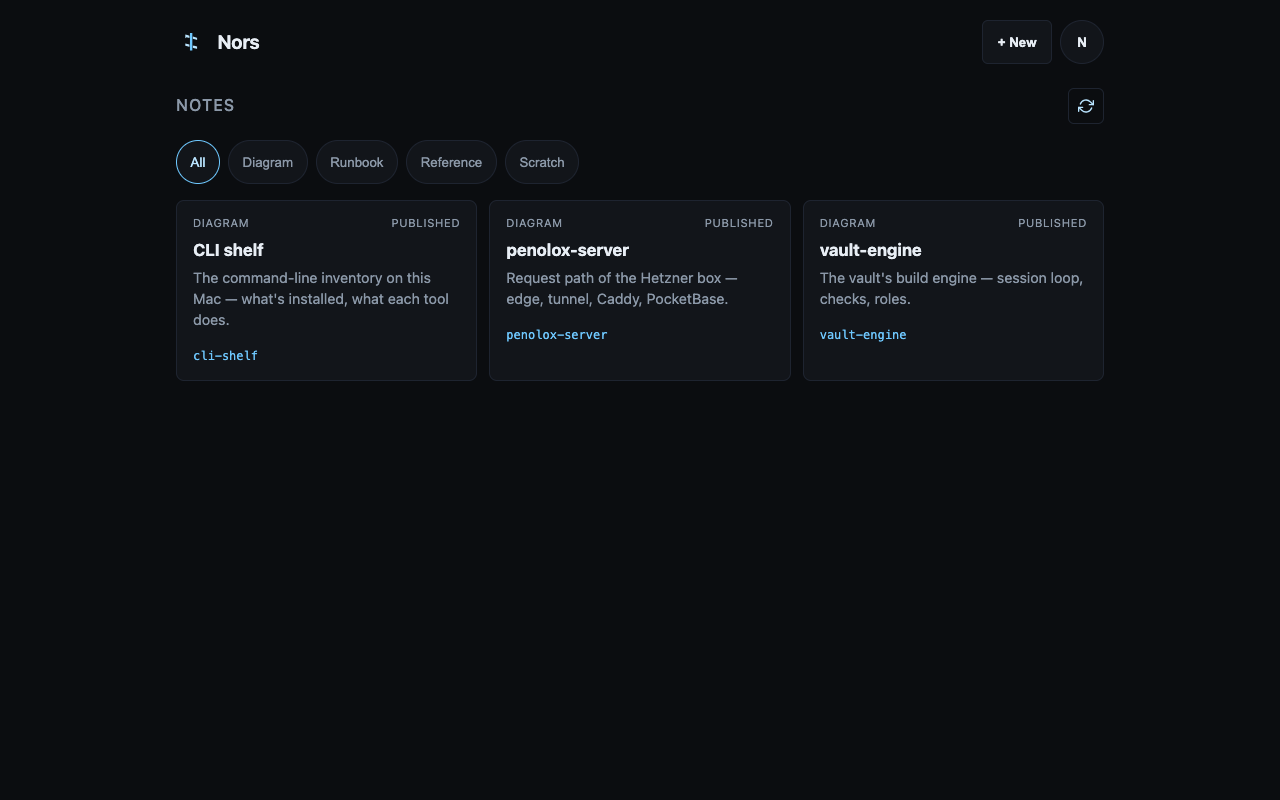
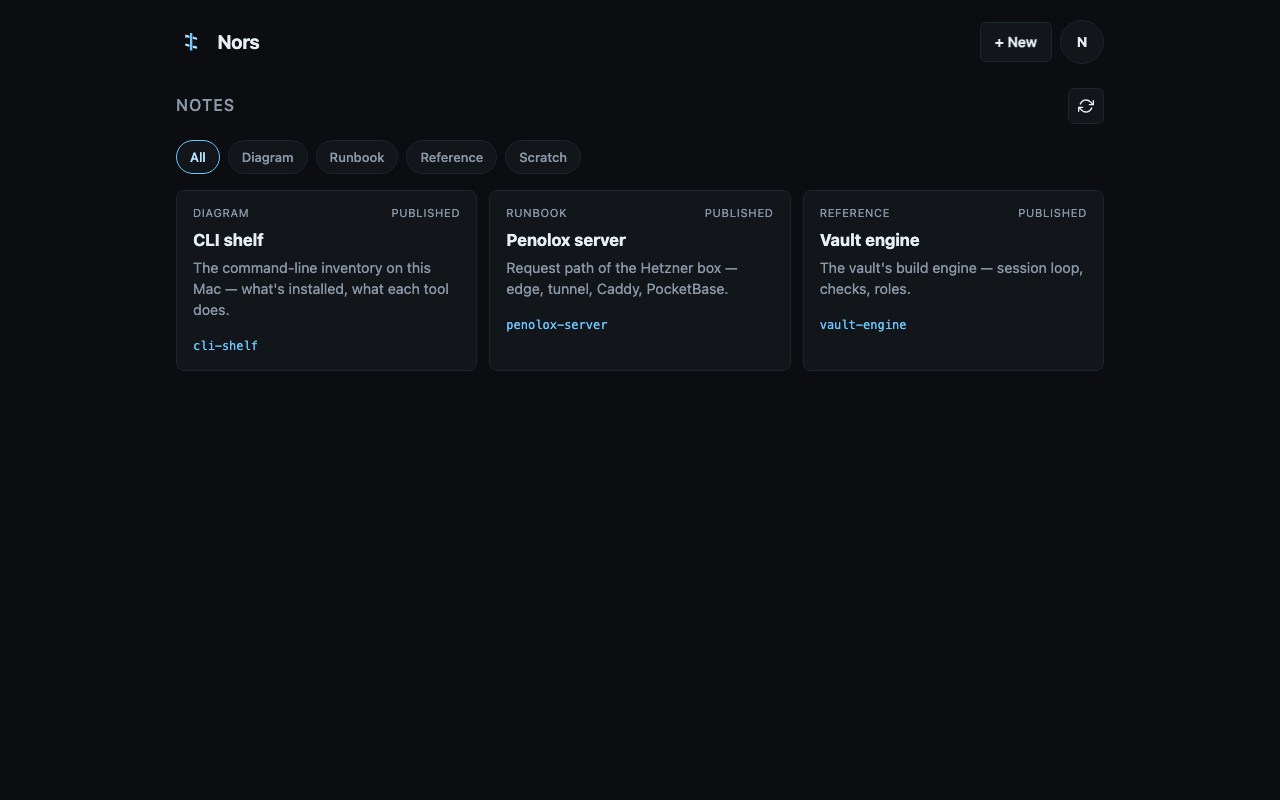
chore: release 0.1.2

diff --git a/README.md b/README.md
@@ -1,6 +1,4 @@
-<div align="center">
-
-<img src="assets/nors-mark-512.png" alt="Nors mark" width="112">
+![Nors mark](assets/nors-mark-32.png)
 
 # Nors
 
@@ -13,8 +11,6 @@
 ![No Docker](https://img.shields.io/badge/Docker-not_required-000?style=flat-square&logo=docker)
 ![Bun](https://img.shields.io/badge/Bun-runtime-000?style=flat-square&logo=bun)
 
-</div>
-
 ---
 
 Nors is not an application you deploy. It is one migration and one static
@@ -22,11 +18,7 @@ page, copied into a PocketBase directory you already have. The database,
 auth, HTTP server and backups are already running — a dedicated notes app
 would duplicate all of them.
 
-<div align="center">
-
-<img src="assets/screenshot-dash.png" alt="Nors dashboard — note cards with kind tabs" width="760">
-
-</div>
+![Nors dashboard — note cards with kind tabs](assets/screenshot-dash.png)
 
 ## What it is
 
@@ -51,11 +43,7 @@ is nothing else to fill in.
 | 🛡 | **Unsaved work asks first** | Leaving the editor with edits pops a guard instead of silently dropping the draft. |
 | 📵 | **No telemetry** | Zero outbound requests. The page talks to your PocketBase and nothing else. |
 
-<div align="center">
-
-<img src="assets/screenshot-reader.png" alt="Nors reader — CLI shelf note with rendered Mermaid diagrams" width="760">
-
-</div>
+![Nors reader — CLI shelf note with rendered Mermaid diagrams](assets/screenshot-reader.png)
 
 ## Footprint
 
